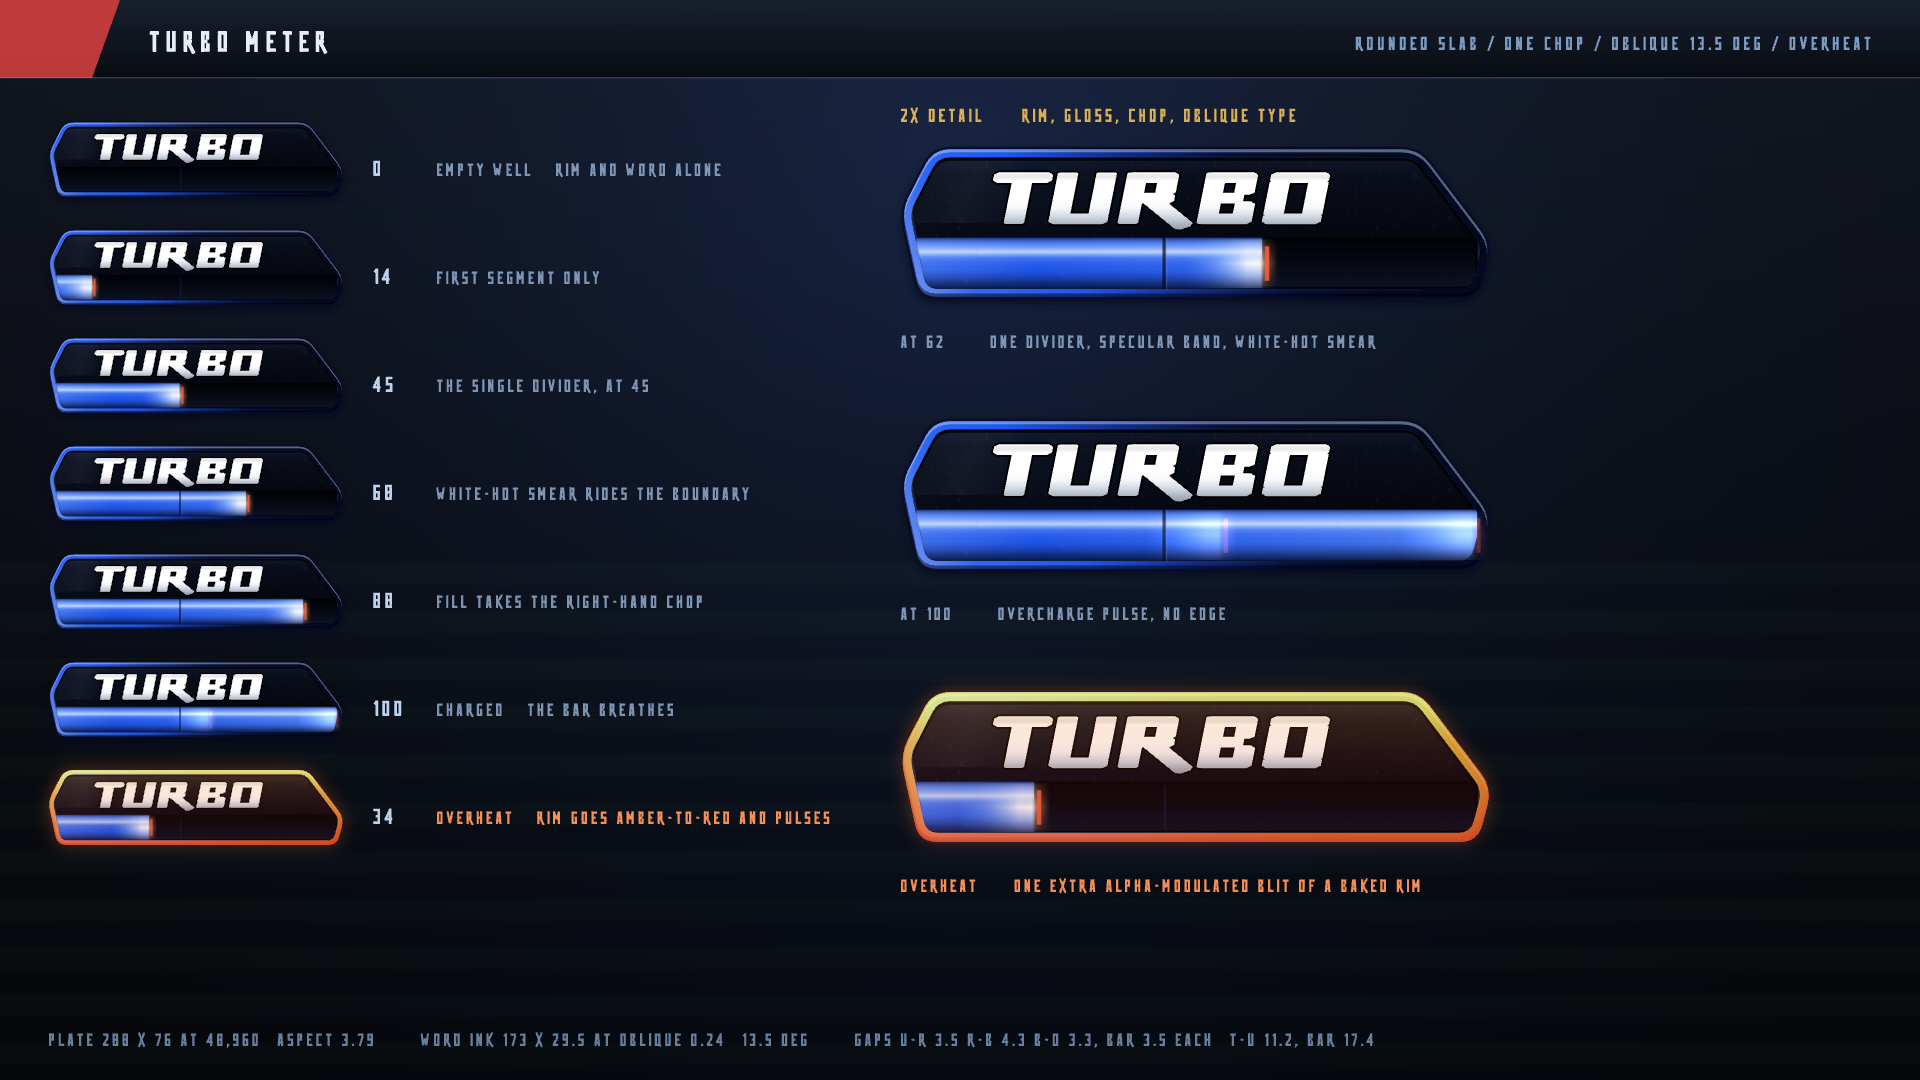
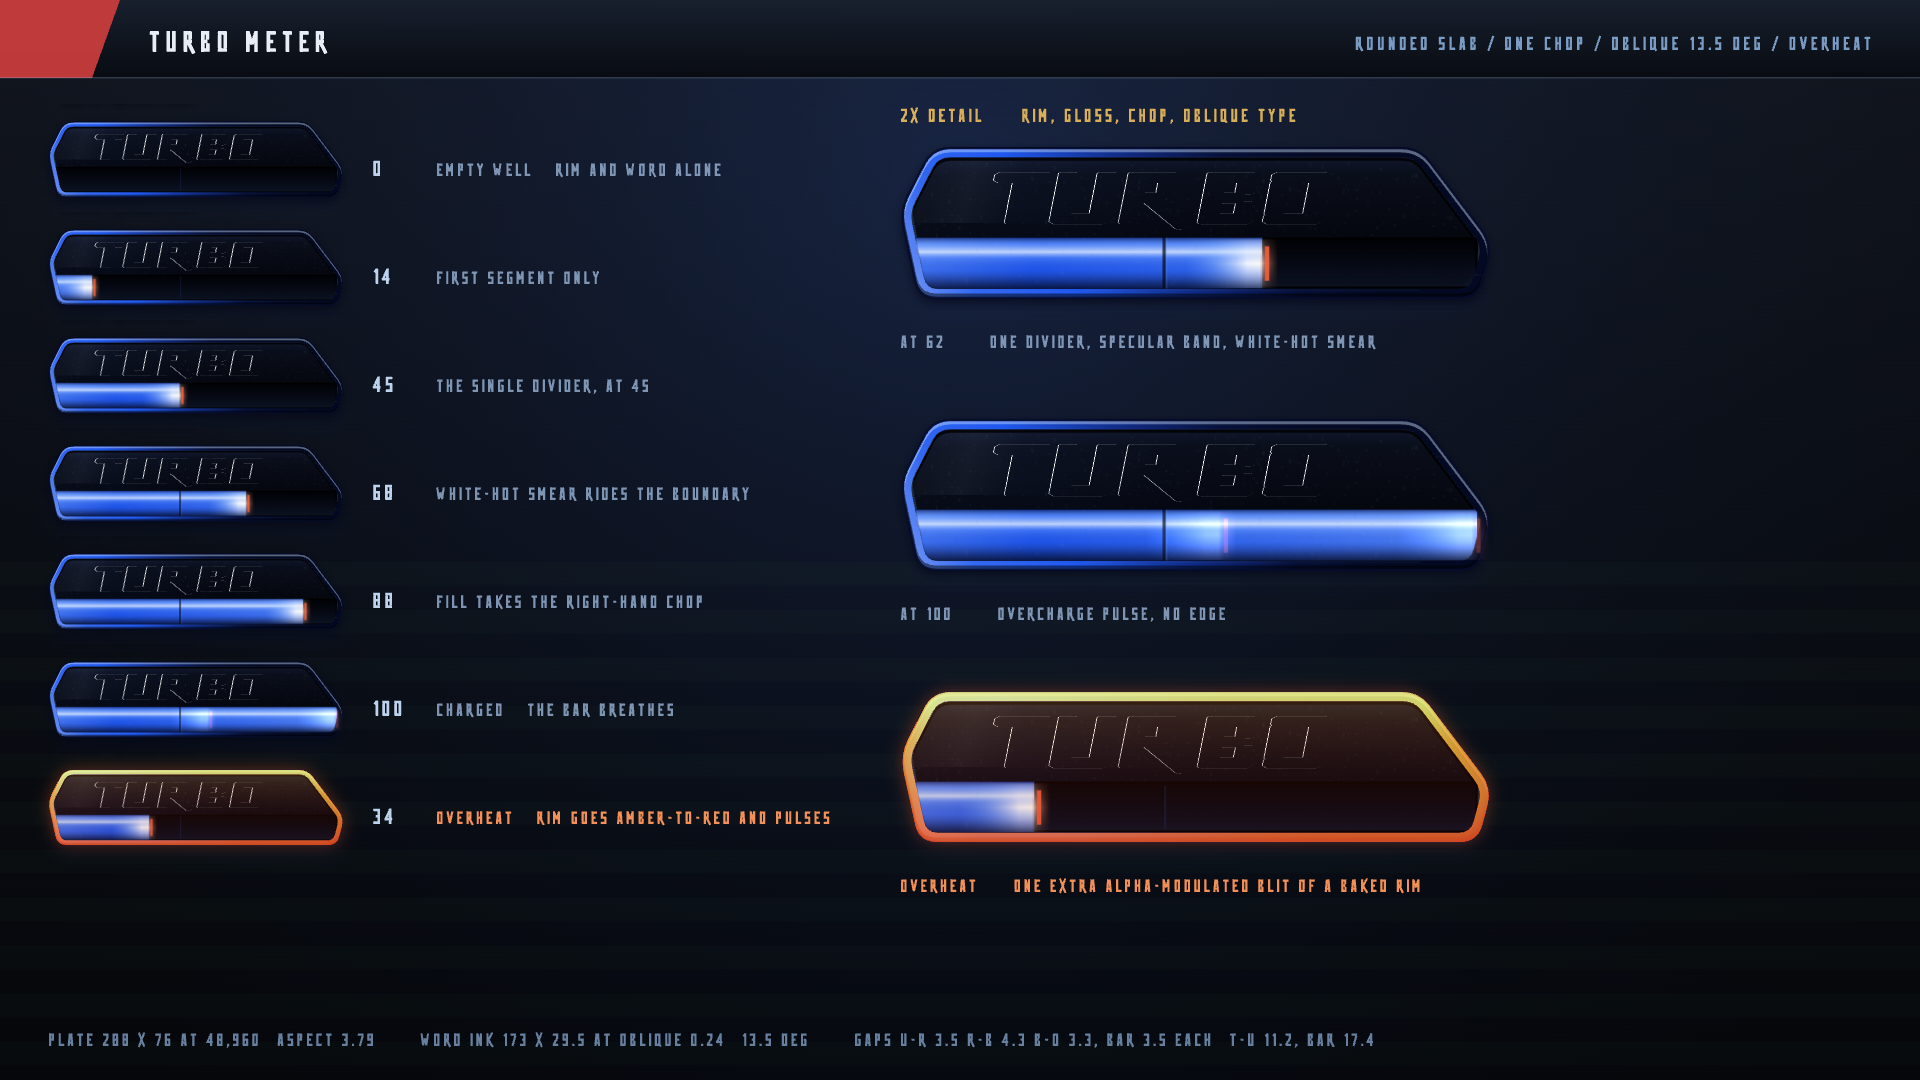
hud-overlay: thin the TURBO stems, retiring a false claim in the source
The round-3 critic measured TURBO stem/cap at 0.382 against the art's 0.209 --
83% overweight, counters closed to slits (our O counter 0.319 cap vs 0.552) --
and called it the loudest tell in the element blind at matched height.

turbo.js widens blitz-techno to reach the art's square letters by solving an x
scale of ~1.96, applied to the PATH, so every vertical stem is multiplied along
with the skeleton.

turbo.js said of this: 'It cannot be fixed from here - it is the face's
proportion.' Both halves are wrong, and the note is now retired in place.
blitz-techno's authored pen is 68 at capHeight 700 = 0.194 of cap, i.e. already
the art's 0.209 -- the face is right, the stretch is the defect. And it is
fixable from here: ink.js pass 3b erodes the layer scratch HORIZONTALLY ONLY
before the keyline goes under it, which takes vertical stems from both sides and
leaves horizontal bars alone -- the same anisotropy the stretch introduced, and
the reason an isotropic erosion would be the wrong tool.

Bake-time, two drawImage calls, no allocation, no frame cost, opt-in via thinX so
only the stretched run pays it. Measurement of the result pending capture.

diff --git a/src/pieces/hud-overlay/ink.js b/src/pieces/hud-overlay/ink.js
@@ -785,6 +785,36 @@ function paint(c, p, q, x0, x1, y0, y1, o, fuse) {
     l.fillRect(x0 - 2, y0, (x1 - x0) + 4, y1 - y0);
   }
 
+  /* 3b — HORIZONTAL-ONLY EROSION, for a run whose x has been stretched.
+   *
+   * turbo.js widens blitz-techno to reach the art's square letters by solving an x scale
+   * of ~1.96, and that scale is applied to the PATH — so every vertical stem is multiplied
+   * by 1.96 along with the skeleton. Measured on a mid-cap slice, stem/cap came out 0.382
+   * against the art's 0.209, i.e. 83% overweight, and the counters closed to slits (our O
+   * counter 0.319 cap against the art's 0.552). Blind at matched height that was the single
+   * loudest tell in the whole element.
+   *
+   * turbo.js's own note said "It cannot be fixed from here — it is the face's proportion."
+   * That is not right, and the face is not at fault: blitz-techno's authored pen is 68 at
+   * capHeight 700 (typeface-lettering/build.js:87-89) = 0.194 of cap, which is already the
+   * art's 0.209. The stretch is what broke it, so the stretch is what gets corrected.
+   *
+   * A pure HORIZONTAL shift erodes a vertical stem from both sides and leaves a horizontal
+   * bar alone except at its two ends — exactly the anisotropy the x stretch introduced, and
+   * exactly why an isotropic erosion would be the wrong tool. Runs at bake time on the
+   * layer scratch, before the keyline goes under it, so the keyline still hugs the FINAL
+   * silhouette rather than the pre-erosion one. Two drawImage calls, no allocation, no
+   * frame cost. Opt-in via o.thinX so only the stretched run pays it. */
+  if (o.thinX > 0) {
+    const d = Math.max(1, Math.round(o.h * o.thinX));
+    l.globalCompositeOperation = 'destination-out';
+    l.setTransform(1, 0, 0, 1, 0, 0);
+    for (let k = 1; k <= d; k++) {
+      l.drawImage(layCv, rx - k, ry, rw, rh, rx, ry, rw, rh);
+      l.drawImage(layCv, rx + k, ry, rw, rh, rx, ry, rw, rh);
+    }
+  }
+
   /* 4 — the keyline, UNDER everything above */
   l.globalCompositeOperation = 'destination-over';
   if (o.keyline) {

diff --git a/src/pieces/hud-overlay/turbo.js b/src/pieces/hud-overlay/turbo.js
@@ -316,7 +316,12 @@ function bakeChrome(ui, s) {
     // So the run has to be widened ~1.7x. That is also the one thing about this
     // word still off the art: stretching x at a fixed pen thickens every vertical
     // stem, so our strokes read ~0.30 of the cap height against the bar's ~0.20.
-    // It cannot be fixed from here — it is the face's proportion.
+    // RETIRED: this said "It cannot be fixed from here - it is the face's proportion."
+    // Both halves were wrong. blitz-techno's authored pen is 68 at capHeight 700
+    // (typeface-lettering/build.js:87-89) = 0.194 of cap, i.e. already the art's 0.209 --
+    // the face is right and the stretch is what thickens the stems. And it IS fixable from
+    // here: a horizontal-only erosion on the layer scratch takes the stems back down
+    // without touching the horizontals. See ink.js pass 3b and the thinX opt below.
     //
     // LETTERSPACING, MEASURED IN A SHEAR-CORRECTED FRAME. A column projection
     // cannot see the gap between two OBLIQUE letters — a column holds one letter
@@ -341,6 +346,9 @@ function bakeChrome(ui, s) {
     // clearance floor keeps every full-height gap above 3 px while the three gaps
     // the eye actually reads land within 10% of each other.
     gap: 5.4, capBand: 0.58, clear: 0.45,
+    // Undoes the x stretch on the STEMS only -- see ink.js pass 3b. Measured target is
+    // the art's stem/cap 0.209 (range 0.191-0.233); we were at 0.382.
+    thinX: 0.055,
     slant: WORD.slant, minXs: 0.62, maxXs: 2.05,
     keyline: { color: 'rgba(0,0,0,0.92)', k: 0.034 },
     shadow: { color: 'rgba(0,3,14,0.95)', blur: 9, dy: 4, alpha: 0.95 },
